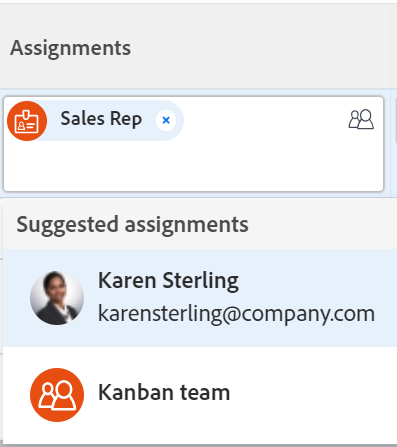
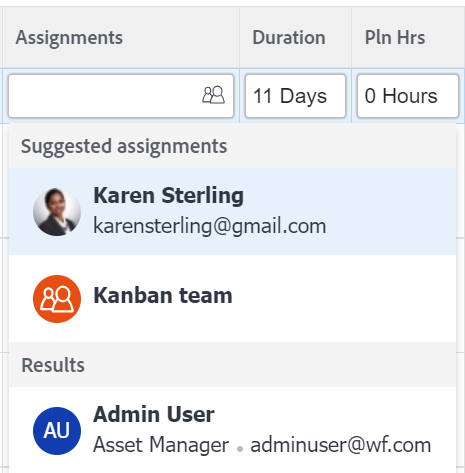
commit-aw-24-jan

diff --git a/help/quicksilver/manage-work/tasks/assign-tasks/smart-assignments.md b/help/quicksilver/manage-work/tasks/assign-tasks/smart-assignments.md
@@ -45,9 +45,13 @@ You can view smart assignments in the following areas where you can assign tasks
 
     <span class="preview">![](assets/smart-assignments-task-list.png)</span>
 
-* A task or issue header in the Assignments field
+* <span class="preview">A task header in the Assignments field</span>
 
-  ![](assets/smart-assignments-task-header-nwe-350x302.png)
+  <span class="preview">![](assets/smart-assignments-task-header-nwe-350x302.png)</span>
+
+* An issue header in the Assignments field
+
+  ![](assets/smart-assignments-issue-header.png)
 
 * The task or issue Summary panel in the Assignments area
 
@@ -64,14 +68,17 @@ You can view smart assignments in the following areas where you can assign tasks
 
 ## Smart assignments criteria
 
-
 <div class="preview">
 
 Smart assignments work differently for tasks than for issues.  
 
 ### Smart assignments criteria for tasks
 
-The task smart assignments calculation works in two phases.   
+The task smart assignments calculation works in two phases which use two different algorithms.
+
+Depending on which algorithm finds the smart assignment, the assignments are listed under two separate sections in the Assignments field. For information, see [Make smart assignments](/help/quicksilver/manage-work/tasks/assign-tasks/make-smart-assignments.md). 
+
+![](assets/smart-assignments-task-list.png)
 
 #### First phase of smart assignment calculation for tasks 
 
@@ -105,6 +112,8 @@ The calculation for the similarity score and the order in which the assignments 
 
   For example, if Rick was assigned to a similar task earlier today and Jennifer was assigned to a similar task two days ago, Rick displays first.  
 
+* Assignments identified in this phase are listed in the **Suggested assignments** section of the Assignments field. 
+
 * If there are no matches using this calculation, the second phase of smart assignments starts which is calculated using a different algorithm.  
 
 #### Second phase of smart assignment calculation for tasks
@@ -113,6 +122,8 @@ If the first step of task smart assignments has found no matches, Workfront calc
 
 For more information, see the section [Smart assignments criteria for tasks and issues](#smart-assignments-criteria-for-tasks-and-issues) in this article. 
 
+Assignments identified in this phase are listed in the **Results** section of the Assignments field. <!--update this to "Other assignments"-->
+
 ### Smart assignments criteria for tasks and issues 
 
 </div> 
@@ -120,6 +131,8 @@ For more information, see the section [Smart assignments criteria for tasks and 
 >[!NOTE]
 >
 ><span class="preview">The following criteria applies for tasks only when the first phase of the task smart assignment calculation did not find any matches. For information, see the section [First phase of smart assignment calculation for tasks](#first-phase-of-smart-assignment-calculation-for-tasks) in this article. The following criteria always applies for issues, by default. </span>
+
+![](assets/smart-assignments-issue-header.png)
 
 Users are recommended in the smart assignments drop-down list based on a combination of the following criteria (listed in order from most important to least important): 
 

diff --git a/help/quicksilver/manage-work/tasks/assign-tasks/make-smart-assignments.md b/help/quicksilver/manage-work/tasks/assign-tasks/make-smart-assignments.md
@@ -9,11 +9,18 @@ exl-id: 073a3234-3156-4b4f-a3e1-dbb32d61068a
 ---
 # Make smart assignments
 
+<!--update "Results" to "Other assignments" with Prod-->
+
 <span class="preview">The highlighted information on this page refers to functionality not yet generally available. It is available only in the Preview environment for all customers.</span>   
   
 <span class="preview">For information about the current release schedule, see [First Quarter 2024 release overview](/help/quicksilver/product-announcements/product-releases/24-q1-release-activity/24-q1-release-overview.md).</span> 
 
-You can use smart assignments to identify who the best user is to complete the work. Smart assignments are suggestions for users that Adobe Workfront presents to you when you assign work items to resources based on an algorithm that determines the most appropriate resource for the job. For information about smart assignments, see [Smart assignments overview](../../../manage-work/tasks/assign-tasks/smart-assignments.md).
+You can use smart assignments to identify who the best user is to complete the work. 
+
+Smart assignments are suggestions for users that Adobe Workfront presents to you when you assign work items to resources based on an algorithm that determines the most appropriate resource for the job.
+
+<span class="preview">There are two separate algorithms in Workfront for tasks and issues. </span>
+For information about smart assignments, see [Smart assignments overview](../../../manage-work/tasks/assign-tasks/smart-assignments.md).
 
 ## Access requirements
 
@@ -70,9 +77,16 @@ Smart assignments are available in most locations where you can make assignments
 
      ![](assets/smart-assignments-task-header-nwe-350x302.png)
 
-   Users displayed in this list are the smart assignment suggestions for the task or the issue.
+   For issues, the smart assignment suggestions display in  the **Suggested assignments** area.
+   
+   For tasks, the smart assignments display in the following sections, depending on which phase of the algorithm's calculation identified the assignments: 
 
-   For more information about where the smart assignments display, see the "Locate smart assignment suggestions" section in the article [Smart assignments overview](../../../manage-work/tasks/assign-tasks/smart-assignments.md) . 
+   * **Suggested assignments**: Assignments identified in the first phase of the task smart assignment's algorithm calculation. 
+   * <span class="preview">**Results**: Assignments identified in the second phase of the task smart assignment's algorithm calculation. This section is not available for issues. </span> <!--replace this with the new UI: "Other assignments"-->
+
+   ![](assets/smart-assignments-task-list.png)
+   
+   For more information, see [Smart assignments overview](../../../manage-work/tasks/assign-tasks/smart-assignments.md) . 
 
 1. Select the user in the recommendations list by clicking their name. 
 

diff --git a/help/quicksilver/manage-work/portfolios/create-and-manage-programs/create-program.md b/help/quicksilver/manage-work/portfolios/create-and-manage-programs/create-program.md
@@ -22,15 +22,15 @@ You must have the following access to perform the steps in this article:
  <col> 
  <tbody> 
   <tr> 
-   <td role="rowheader">[!DNL Adobe Workfront] plan*</td> 
-   <td> <p>New: Any</p><p>Or</p><p>Current: [!UICONTROL Business] or higher</p> </td> 
+   <td role="rowheader">[!DNL Adobe Workfront] plan</td> 
+   <td> <p>Any</p></td> 
   </tr> 
   <tr> 
    <td role="rowheader">[!DNL Adobe Workfront] license*</td> 
    <td> <p>New: [!UICONTROL Standard] </p><p>Or </p><p>Current: [!UICONTROL Plan] </p> </td> 
   </tr> 
   <tr> 
-   <td role="rowheader">Access level configurations*</td> 
+   <td role="rowheader">Access level configurations</td> 
    <td> <p>[!UICONTROL Edit] access to Portfolios and Programs </p>  </td> 
   </tr> 
   <tr> 
@@ -173,7 +173,7 @@ The following information displays in the header of a program:
   </tr> 
   <tr> 
    <td role="rowheader">[!UICONTROL Planned Completion Date]</td> 
-   <td>You cannot edit the Planned Completion Date of the program in the header.  </td> 
+   <td>You cannot edit the Planned Completion Date of the program in the header. This information is updated from the projects in the program. The Planned Completion Date of the latest project in the program becomes the Planned Completion date of the program.  </td> 
   </tr> 
   <tr> 
    <td role="rowheader">[!UICONTROL Active Projects Condition]</td> 

diff --git a/help/quicksilver/maestro/fields/create-fields.md b/help/quicksilver/maestro/fields/create-fields.md
@@ -379,7 +379,7 @@ For more information, see [Formula fields overview](/help/quicksilver/maestro/fi
 
     >[!NOTE]
     >
-    >    You cannot add fields from linked records in a formula. This functionality will be released at a later date. For more information about new releases, see [Adobe Maestro release actovity](/help/quicksilver/maestro/release-activity.md). 
+    >    You cannot add fields from linked records in a formula. This functionality will be released at a later date. For more information about new releases, see [Adobe Maestro release activity](/help/quicksilver/maestro/release-activity.md). 
 
 
 1. Click **Create**.
